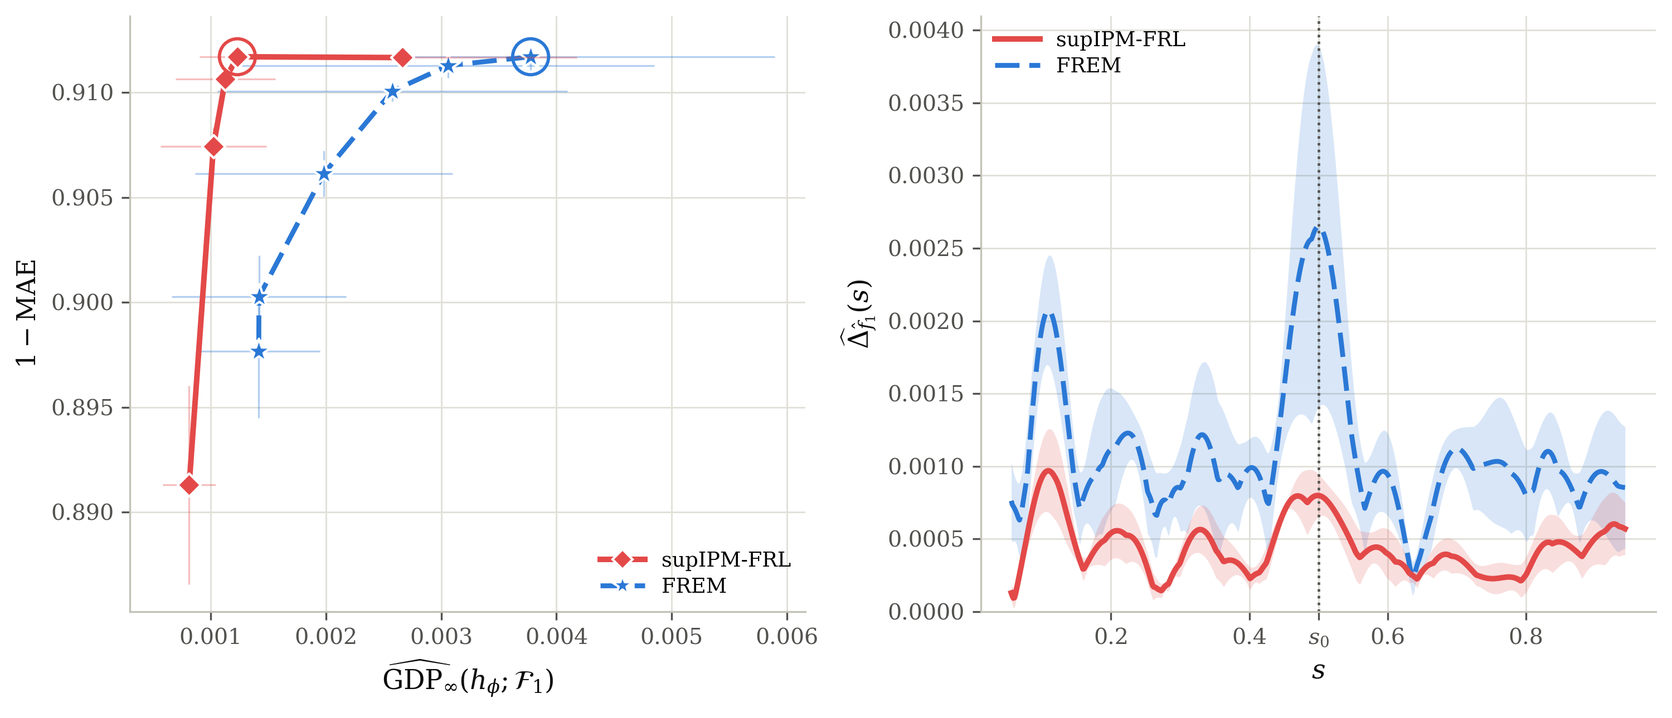
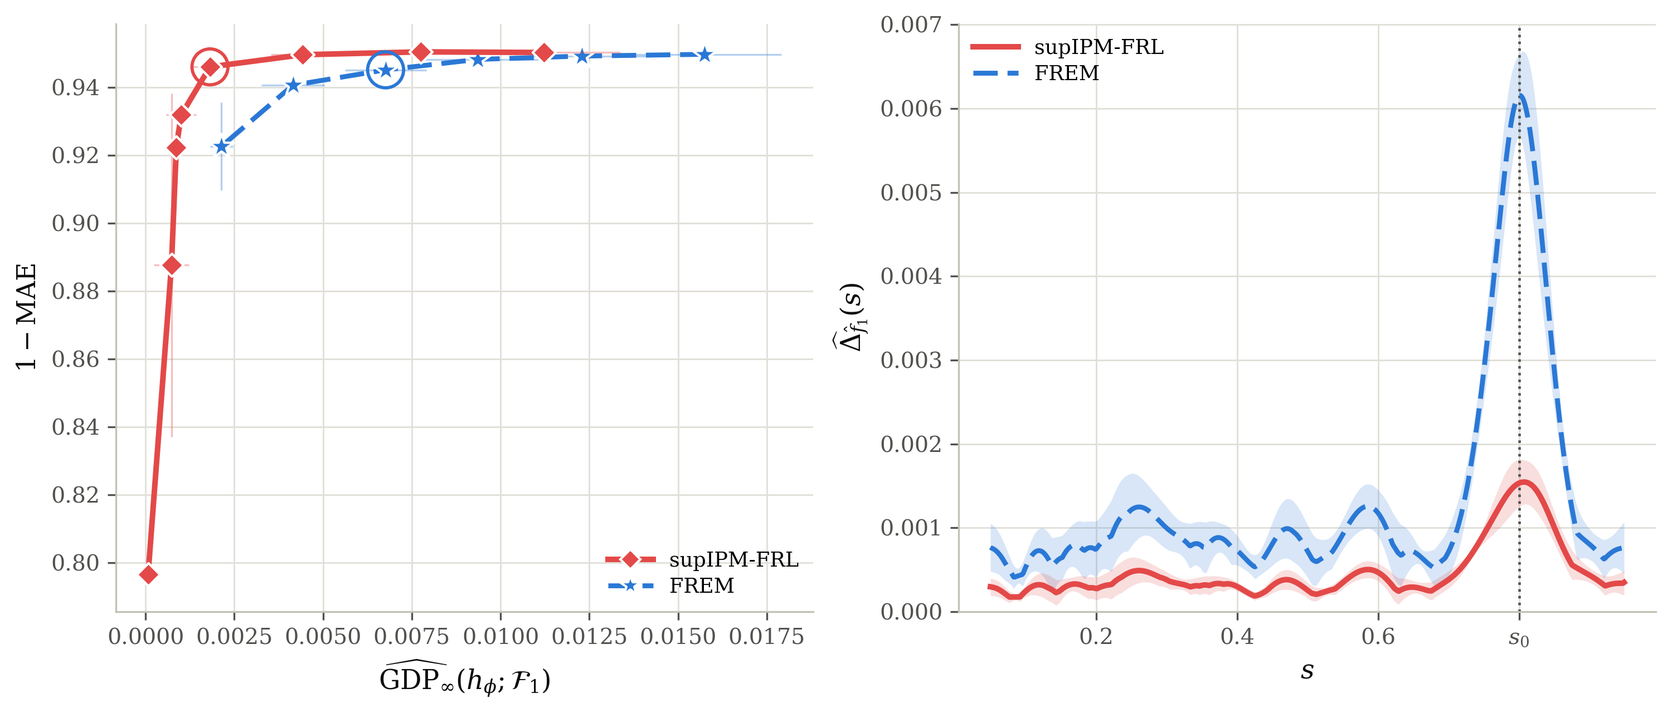
Update on Overleaf.

diff --git a/iclr2027/iclr2027_conference.tex b/iclr2027/iclr2027_conference.tex
@@ -90,12 +90,11 @@ Address \\
 
 
 \maketitle
-
 \begin{abstract}
 Fair representation learning (FRL) seeks a representation that is informative for downstream prediction yet independent of a sensitive attribute. For a continuous sensitive attribute, existing methods measure the discrepancy between conditional and marginal distributions at each sensitive value and \emph{average} it over the distribution of the sensitive attribute. Such an average can be small even when a fairness violation is confined to a low-probability range of sensitive values, and thus provides no uniform guarantee over the sensitive domain. 
 We therefore propose the supremum integral probability metric (supIPM) to measure the worst-case discrepancy between the conditional and marginal distributions of the representation over sensitive values.
 supIPM controls the worst-case disparity of predictions, which we call $L_\infty$-generalized demographic parity.
-We then propose supIPM-FRL, an algorithm for learning representations that control worst-case fairness violations in downstream predictions.
+We then propose $\mathrm{FR}_{\sup}$, an algorithm for learning representations that control worst-case fairness violations in downstream predictions.
 % Such a discriminator is determined by a direction and a bias alone, so each discrepancy is maximized over the discriminator class by gradient ascent. 
 % We prove that the empirical supIPM is a uniformly consistent estimator, and bounds downstream disparity for heads of bounded Hölder norm.
 % We establish a uniform convergence rate of the empirical supIPM over a class of encoders and show that it yields a bound on downstream disparity for heads of bounded Hölder norm.
@@ -158,7 +157,7 @@ The worst-case fairness violation of any prediction model constructed on the fai
   \item We construct an estimator of supIPM by applying kernel density estimation techniques
   to ReLU-IPM, and prove that this estimator is consistent. 
   \item We develop an algorithm to learn a fair representation while controlling the worst-case fairness violation, called
-  supIPM-FRL, and prove that the worst-case fairness violations of a large class of prediction models constructed on the fair representation learned by supIPM-FRL are asymptotically controlled.
+  $\mathrm{FR}_{\sup}$, and prove that the worst-case fairness violations of a large class of prediction models constructed on the fair representation learned by supIPM-FRL are asymptotically controlled.
   \item We demonstrate empirically that supIPM-FRL controls fairness violations 
 across all of the domain of continuous sensitive attributes.
   % uniformly over the sensitive domain and over prediction heads of bounded H\"older norm.
@@ -277,7 +276,8 @@ and $  \mathcal{H}^{\beta}_d
   \end{cases}
   \label{eq:relu-holder}
 \end{equation}
-This result implies that we can control H\"older-IPM by controlling ReLU-IPM, and thus control fairness violation of H\"older smooth prediction heads.
+This result implies that we can control H\"older-IPM by controlling ReLU-IPM, and thus control fairness violation of H\"older smooth prediction heads. 
+However, computing $\widehat{\operatorname{EIPM}}^{\gamma}_{\mathcal{V}_{\mathrm{R}}}(\mathbf{Z};S)$ requires  adversarial learning  for each $S_i$, making it computationally demanding to apply ReLU-IPM to FREM.
 
 \section{supIPM for fair representation learning}
 \label{sec:supipm}
@@ -567,7 +567,7 @@ Experimental details are given in Appendices~\ref{app:synth-experiments} and~\re
 
 \paragraph{Measures.}  Prediction performance is measured by the test accuracy for classification and the test $1-\mathrm{MAE}$ for regression.  Fairness violation of a prediction head $f$ on the representation $\mathbf{Z}=h_{\phi}(\mathbf{X})$ is measured through the disparity $\Delta_{f}(s):=|\mathbb{E}[f(\mathbf{Z})\mid S=s]-\mathbb{E}[f(\mathbf{Z})]|$ at each sensitive value $s$.
 % whose supremum over $s$ is $\operatorname{GDP}_{\infty}(f\circ h)$ of (\ref{eq:linfty-gdp}).
-The prediction-level disparity $\operatorname{GDP}_{\infty}(f_{\psi}\circ h_{\phi}) = \sup_{s} \Delta_{f_{\psi}}(s)$ evaluates the prediction head $f_{\psi}$ trained jointly with the encoder.  Since a representation may later serve other prediction heads \citep{coston2021characterizing,jovanovic2023fare,luo2026fair}, we also measure the largest disparity that a downstream prediction head can attain.  For $c>0$, let $\mathcal{F}_c:=\{\sigma(\mathbf{w}^\top\mathbf{z}+b):\lVert\mathbf{w}\rVert_2\le c,\ b\in\mathbb{R}\}$ be the logistic heads with weight norm at most $c$, where $\sigma(t):=(1+e^{-t})^{-1}.$ The worst-case downstream disparity over $\mathcal{F}_c$ is
+The prediction-level disparity $\operatorname{GDP}_{\infty}(f_{\psi}\circ h_{\phi}) = \sup_{s} \Delta_{f_{\psi}}(s)$ evaluates the prediction head $f_{\psi}$ trained jointly with the encoder.  Since a representation may later serve other prediction heads \citep{coston2021characterizing,jovanovic2023fare,luo2026fair}, we also measure the largest disparity that a downstream prediction head can attain.  For $c>0$, let $\mathcal{F}_c:=\{\sigma(\mathbf{w}^\top\mathbf{z}+b):\lVert\mathbf{w}\rVert_2\le c,\ b\in\mathbb{R}\}$ be the class of prediction heads with weight norm at most $c$, where $\sigma(t):=(1+e^{-t})^{-1}.$ The worst-case downstream disparity over $\mathcal{F}_c$ is
 \begin{equation}
   \operatorname{GDP}_{\infty}(h_{\phi};\mathcal{F}_c):=\sup_{f\in\mathcal{F}_c}\operatorname{GDP}_{\infty}(f\circ h_{\phi}) = \sup_{f\in\mathcal{F}_c} \sup_{s \in \mathcal{S}} \Delta_{f}(s).
   \label{eq:worst-case-gdp}
@@ -585,7 +585,8 @@ We write $\widehat{\Delta}_{f}$ and $\widehat{\operatorname{GDP}}_{\infty}$ for 
   \widehat{\operatorname{GDP}}_{\infty}(f_{\mathbf{w},b}\circ h_\phi)
   \label{eq:worst-case-estimate}
 \end{equation}
-over $\lVert\mathbf{w}\rVert_2\le c$ and $b\in\mathbb{R}$, with $\lambda_h=10^{3}$ so that the fairness regularization term dominates.  The minimizer $\hat{f}_c$ approximates the head attaining the supremum in (\ref{eq:worst-case-gdp}), and the worst-case disparity is estimated by $\widehat{\operatorname{GDP}}_{\infty}(h_\phi;\mathcal{F}_c):=\widehat{\operatorname{GDP}}_{\infty}(\hat{f}_c\circ h_\phi)$.
+over $\lVert\mathbf{w}\rVert_2\le c$ and $b\in\mathbb{R}$, with $\lambda_h=10^{3}$ so that the fairness regularization term dominates. Let $\hat{f}_c(\cdot):=f_{\hat{\mathbf{w}}_c,\hat{b}_c}(\cdot)$, where $(\hat{\mathbf{w}}_c,\hat{b}_c)$ minimizes $\widetilde{\mathcal{L}}(\mathbf{w},b)$ subject to $\lVert\mathbf{w}\rVert_2\le c$ and $b\in\mathbb{R}$.
+  This head approximates the prediction head attaining the supremum in (\ref{eq:worst-case-gdp}), and the worst-case disparity is estimated by $\widehat{\operatorname{GDP}}_{\infty}(h_\phi;\mathcal{F}_c):=\widehat{\operatorname{GDP}}_{\infty}(\hat{f}_c\circ h_\phi)$.
 
 \subsection{Simulation study}
 \label{sec:exp-simulation}
@@ -609,15 +610,16 @@ over $\lVert\mathbf{w}\rVert_2\le c$ and $b\in\mathbb{R}$, with $\lambda_h=10^{3
 % We compare supIPM-FRL with FREM by varying the penalty parameter $\lambda$ of their training objectives, (\ref{eq:supipm-penalized-objective}) and (\ref{eq:frem-objective}) respectively, and measure fairness violation by the worst-case downstream disparity over $\mathcal{F}_1$.
 % Each curve joins the configurations in increasing order of the penalty parameter.
 We generate an input $\mathbf{X}:=(\mathbf{X}_{\mathrm{task}},\mathbf{X}_{\mathrm{noise}},S)$ and an outcome $Y$ as follows.
-We independently draw $S\sim\mathrm{Uniform}(0,1)$, $\mathbf{X}_{\mathrm{task}}\sim N(\mathbf{0},\mathbf{I}_4)$, $\mathbf{X}_{\mathrm{noise}}\sim N(\mathbf{0},\mathbf{I}_3)$ and $\varepsilon_1,\varepsilon_2\sim N(0,1)$, and set
+We independently draw $S$ on $[0,1]$ with density
+$p(s) \propto 1-0.9\exp\{-(s-s_0)^2/(2\tau^2)\}$, $\mathbf{X}_{\mathrm{task}}\sim N(\mathbf{0},\mathbf{I}_4)$, $\mathbf{X}_{\mathrm{noise}}\sim N(\mathbf{0},\mathbf{I}_3)$ and $\varepsilon_1,\varepsilon_2\sim N(0,1)$, and set
 \begin{equation*}
 X_{\mathrm{loc}}:=3\exp\!\left\{-\frac{(S-s_0)^2}{2\tau^2}\right\}+0.5\,\varepsilon_1,
 \qquad
 Y:=\sigma\!\left(\boldsymbol{\upsilon}^\top\mathbf{X}_{\mathrm{task}}+X_{\mathrm{loc}}+0.3\,\varepsilon_2\right),
 \end{equation*}
-where $s_0=0.5$, $\tau=0.043$ and $\boldsymbol{\upsilon}\in\mathbb{R}^4$ is given.
-Since $S$ affects $Y$ only near $s_0$, the worst-case fairness violation can occur near $s_0$, even though only a small proportion of observations fall in this narrow interval.
-We compare supIPM-FRL with FREM by varying $\lambda$ in (\ref{eq:supipm-penalized-objective}) and (\ref{eq:frem-objective}), respectively, and measure fairness violation by the worst-case downstream disparity over $\mathcal{F}_1$.
+where $s_0=0.8$, $\tau=0.043$ and $\boldsymbol{\upsilon}\in\mathbb{R}^4$ is a fixed vector.
+Since $\tau$ is small and so $S$ affects $Y$ only near $s_0$, the worst-case fairness violation can occur near $s_0$ where only a small proportion of observations fall in this narrow interval. Thus, EIPM may ignore unfairness around $s_0.$
+To confirm this conjecture, we compare supIPM-FRL with FREM by varying $\lambda$ in (\ref{eq:frem-objective}) and (\ref{eq:supipm-penalized-objective}), respectively, and measure the worst-case downstream disparity over $\mathcal{F}_1$.
 Details are provided in Appendix~\ref{app:synth-experiments}.
 
 
@@ -657,7 +659,12 @@ Table~\ref{tab:datasets} in Appendix~\ref{app:real-datasets} gives further detai
 
 \paragraph{Baselines.}
 We compare supIPM-FRL with seven baselines for fair representation learning (FRL) algorithms or for learning fair prediction models.
-Table~\ref{tab:baselines} summarizes the compared algorithms, and Appendix~\ref{app:real-baselines} provides more details about baseline methods.
+Table~\ref{tab:baselines} summarizes the type of sensitive attribute
+and the learning object of each method. The learning object indicates
+whether the method was proposed for fair representation learning or
+fair prediction. Appendix~\ref{app:real-baselines} provides further
+details about the baseline methods.
+% Table~\ref{tab:baselines} summarizes the compared algorithms, and Appendix~\ref{app:real-baselines} provides more details about baseline methods.
 % ADV is the adaptation by \citet{kong2025fair} of the adversarial method of \citet{zhang2018mitigating}, whose adversary predicts $S$ from the representation.
 To apply LAFTR, MMD and sIPM-LFR to the continuous sensitive attribute $S$, we binarize the sensitive values at their median in the training data.
 For each method, we vary its fairness penalty parameter $\lambda$ over a grid and train with five random seeds.
@@ -671,16 +678,16 @@ For each method, we vary its fairness penalty parameter $\lambda$ over a grid an
 \label{tab:baselines}
 \begin{tabular}{lll}
 \toprule
-Method & Type of sensitive attribute & Aim of algorithm \\
+Method & Type of sensitive attribute & Learning object \\
 \midrule
-supIPM-FRL & continuous & representation \\
-FREM \citep{kong2025fair} & continuous & representation \\
-Reg-GDP \citep{jiang2022generalized} & continuous or discrete & prediction  \\
-Reg-HGR \citep{mary2019fairness} & continuous or discrete & prediction \\
-ADV \citep{zhang2018mitigating} & continuous or discrete & prediction \\
-LAFTR \citep{madras2018learning} & binary & representation \\
-MMD \citep{deka2023mmd} & binary & representation \\
-sIPM-LFR \citep{kim2022learning} & binary & representation \\
+supIPM-FRL & continuous & fair representation \\
+FREM \citep{kong2025fair} & continuous & fair representation \\
+Reg-GDP \citep{jiang2022generalized} & continuous or discrete & fair prediction  \\
+Reg-HGR \citep{mary2019fairness} & continuous or discrete & fair prediction \\
+ADV \citep{zhang2018mitigating} & continuous or discrete & fair prediction \\
+LAFTR \citep{madras2018learning} & binary & fair representation \\
+MMD \citep{deka2023mmd} & binary & fair representation \\
+sIPM-LFR \citep{kim2022learning} & binary & fair representation \\
 \bottomrule
 \end{tabular}
 \vspace{-6pt}
@@ -700,7 +707,7 @@ sIPM-LFR \citep{kim2022learning} & binary & representation \\
 Figure~\ref{fig:adult} compares the methods by the prediction-level disparity and Figure~\ref{fig:worst-case} by the worst-case downstream disparity over $\mathcal{F}_1$.
 % the results with $S$ discretized at its mean and the worst-case curves over $\mathcal{F}_4$ and $\mathcal{F}_8$ are given in Appendix~\ref{app:real-tabular}.
 supIPM-FRL is similar to the other methods at the prediction level, whereas its worst-case disparity is markedly smaller than that of every other method on all three datasets.
-Table~\ref{tab:matched-adult} reports the two disparities on Adult at test accuracy $0.838$--$0.846$, following Appendix~\ref{app:real-matched}. The worst-case disparity of supIPM-FRL is lower than that of every baseline.
+% Table~\ref{tab:matched-adult} reports the two disparities on Adult at test accuracy $0.838$--$0.846$, following Appendix~\ref{app:real-matched}. The worst-case disparity of supIPM-FRL is lower than that of every baseline.
 % , where the methods that use $S$ directly coincide with it.
 The prediction-level disparity concerns the trained head only, whereas the worst-case disparity concerns every head in $\mathcal{F}_1$.
 \begin{figure}[!htb]
@@ -712,28 +719,28 @@ The prediction-level disparity concerns the trained head only, whereas the worst
   \vspace{-4pt}
 \end{figure}
 
-\begin{table}[!htb]
-\centering
-\footnotesize
-\setlength{\tabcolsep}{3pt}
-\caption{Prediction-level and worst-case disparities on Adult.}
-\label{tab:matched-adult}
-\begin{tabular}{lrrrrrrrr}
-\toprule
- & supIPM-FRL & FREM & Reg-GDP & Reg-HGR & ADV & LAFTR & MMD & sIPM-LFR \\
-\midrule
-prediction-level & $\mathbf{0.0350}$ & 0.0529 & 0.0639 & 0.0706 & 0.0855 & 0.0822 & 0.0541 & 0.0601 \\
-worst-case & $\mathbf{0.0014}$ & 0.0086 & 0.0339 & 0.0192 & 0.0388 & 0.0403 & 0.0186 & 0.0197 \\
-\bottomrule
-\end{tabular}
-\vspace{-6pt}
-\end{table}
+% \begin{table}[!htb]
+% \centering
+% \footnotesize
+% \setlength{\tabcolsep}{3pt}
+% \caption{Prediction-level and worst-case disparities on Adult.}
+% \label{tab:matched-adult}
+% \begin{tabular}{lrrrrrrrr}
+% \toprule
+%  & supIPM-FRL & FREM & Reg-GDP & Reg-HGR & ADV & LAFTR & MMD & sIPM-LFR \\
+% \midrule
+% prediction-level & $\mathbf{0.0350}$ & 0.0529 & 0.0639 & 0.0706 & 0.0855 & 0.0822 & 0.0541 & 0.0601 \\
+% worst-case & $\mathbf{0.0014}$ & 0.0086 & 0.0339 & 0.0192 & 0.0388 & 0.0403 & 0.0186 & 0.0197 \\
+% \bottomrule
+% \end{tabular}
+% \vspace{-6pt}
+% \end{table}
 
 \Needspace{11\baselineskip}
 \begin{wrapfigure}{r}{0.36\textwidth}
   \vspace{-4pt}
   \centering
-  \includegraphics[width=\linewidth]{main/fig5_profile_adult.pdf}
+  \includegraphics[width=\linewidth]{main/fig5_profile_adult.png}
   \vspace{-14pt}
   \caption{$\widehat{\Delta}_{\hat{f}_1}(s)$  of supIPM-FRL and FREM at matched test accuracy.}
   \label{fig:profile-adult}
@@ -742,11 +749,27 @@ worst-case & $\mathbf{0.0014}$ & 0.0086 & 0.0339 & 0.0192 & 0.0388 & 0.0403 & 0.
 
 % The other methods constrain the dependence on $S$ only on average over $S$, only within groups of a discretized $S$, or only through a single head or adversary, so a downstream head can use the dependence they leave.
 % The baselines do not directly control the dependence between the representation and $S$ at every sensitive value, so a downstream head can exploit the dependence that remains, which raises the worst-case disparity.
-The baselines do not directly control disparity at every sensitive value, so worst-case fairness violations may arise with other downstream heads.
+The baselines do not directly control disparity at every sensitive value, so the worst-case fairness violation may be large with other downstream heads.
 In contrast, supIPM-FRL controls the largest ReLU-IPM between $\mathbb{P}_{\mathbf{Z}\mid S=s}$ and $\mathbb{P}_{\mathbf{Z}}$ over the sensitive domain, and Corollary~\ref{cor:certificate} implies that the empirical supIPM yields a bound on $\Delta_f(s)$ over $\mathcal{S}_n$ for every head $f$ of bounded H\"older norm.
-Figure~\ref{fig:profile-adult} shows $\widehat{\Delta}_{\hat{f}_1}(s)$ on Adult for supIPM-FRL and FREM at a test accuracy within $0.004$ of the model trained without a fairness penalty.
+Figure~\ref{fig:profile-adult} shows $\widehat{\Delta}_{\hat{f}_1}(s)$ on Adult for supIPM-FRL and FREM 
+with the test accuracies similar to that of the model trained without a fairness penalty.
 % For each method, we take the setting with the smallest worst-case disparity among these settings.
-The disparity of supIPM-FRL is small over the whole sensitive domain, whereas that of FREM is substantially larger over most of the domain.
+The disparity of supIPM-FRL is small over the whole sensitive domain, whereas that of FREM is substantially larger for $s$
+near the left boundary and $s \approx 0.52$. 
+% The disparity of supIPM-FRL is small over the whole sensitive domain,
+% whereas that of FREM is substantially larger for $s$ near the left
+% boundary and $s\approx0.52$. 
+% The larger disparities of FREM occur in age ranges where the proportion
+% of observations whose income exceeds \$50k differs markedly from the
+% corresponding proportion in the full dataset. Appendix~\ref{app:adult-explain} provides a detailed comparison of these proportions.
+
+\begin{remark}
+    \label{rem:sup-mmd}
+    Unlike the worst-case disparity shown in \ref{fig:simulation}, FREM exhibits high $\widehat{\Delta}_{\hat{f}_1}(s)$ across the sensitive domain in Figure~\ref{fig:profile-adult}.
+A possible explanation is that the discriminator class of MMD used in FREM is smaller than that of ReLU-IPM, as discussed in Section~\ref{sec:discriminator-choice}.
+We further examine the effect of the discriminator class in Appendix~\ref{app:ablation-ipm-class}.
+\end{remark}
+
 
   % on Adult for the configurations with the smallest worst-case disparity among those whose test accuracy is within $0.004$ of the model trained without a penalty. the worst-case head of FREM attains a disparity many times larger than that of supIPM-FRL, whose disparity is small at every $s$.  Accordingly, the empirical supIPM on the test data in Appendix~\ref{app:real-measures} is smallest for supIPM-FRL on Adult and Crime at a matched level of prediction performance, although FREM attains a smaller value on ACSIncome.
 
@@ -767,7 +790,7 @@ We proposed supIPM, which measures the worst-case fairness violation of a repres
 We established a uniform convergence rate of the empirical supIPM, which yields a bound of the $\operatorname{GDP}_{\infty}$ for every  H\"older smooth prediction head.
 % With the ReLU discriminator class, supIPM-FRL admits a mini-batch formulation with unbiased gradients for fixed inner variables.
 On simulated and real data, supIPM-FRL attains a markedly smaller worst-case downstream disparity than existing methods at comparable prediction performance.
-Future work includes extending supIPM to fairness criteria conditional on the outcome, such as equalized odds and equal opportunity.
+Future work includes extending supIPM to fairness criteria conditional on the outcome, such as equalized odds or equal opportunity.
 
 % Future work includes extending supIPM-FRL to multivariate sensitive attributes.
 % We also aim to support training when sensitive attributes are observed for only some samples.
@@ -1663,6 +1686,21 @@ The data are generated as
 \end{aligned}
 \label{eq:synth-common}
 \end{equation}
+\begin{equation}
+\begin{alignedat}{2}
+  &\omega(s):=\exp\!\left\{-\frac{(s-s_0)^2}{2\tau^2}\right\},
+  &\qquad&
+  s_0=0.8,\quad \tau=0.043,\\
+  &S\sim p_S(\cdot),
+  &\qquad&
+  p_S(s)\propto 1-0.9\,\omega(s),\quad s\in[0,1],\\
+  &\mathbf{X}_{\mathrm{task}}\sim N(\mathbf{0},\mathbf{I}_4),
+  &\qquad&
+  \mathbf{X}_{\mathrm{noise}}\sim N(\mathbf{0},\mathbf{I}_3),\\
+  &X_{\mathrm{loc}}:=3\,\omega(S)+0.5\,\varepsilon_1.
+\end{alignedat}
+\label{eq:synth-common}
+\end{equation}
 where $\varepsilon_1,\varepsilon_2\sim N(0,1)$, and $S$, $\mathbf{X}_{\mathrm{task}}$, $\mathbf{X}_{\mathrm{noise}}$, $\varepsilon_1$ and $\varepsilon_2$ are mutually independent.
 The function $\omega$ is a Gaussian kernel centered at $s_0=0.5$.  Since $S$ is uniform on $[0,1]$, the interval $[s_0-\tau,\,s_0+\tau]$ has probability $2\tau=0.086$, so the dependence of $X_{\mathrm{loc}}$ on $S$ introduced through $\omega$ is concentrated in a small part of the sensitive domain.  Let $\boldsymbol{\upsilon}:=(0.8,-0.6,0.4,0.5)^\top$ and let $\sigma$ be the logistic function of Section~\ref{sec:experiments}.  The outcome and the input are
 \begin{equation}
@@ -2018,6 +2056,66 @@ The MMD evaluates the kernel at every pair of representations, so its cost grows
 
 The linear cost of supIPM-FRL, together with the unbiased mini-batch gradients of Appendix~\ref{app:mini-batch}, is the main reason for the ReLU discriminators of Section~\ref{sec:discriminator-choice}.
 
+\subsection{Effect of IPM class}
+\label{app:ablation-ipm-class}
+이 subsection에서는 IPM class $\mathcal{V}$의 choice가 $\mathrm{FR}_{\sup}$에 주는 영향을 분석한다. 그러기 위해서 Relu-IPM 외에 sigoild ipm과 MMD를 추가로 고려한다. supIPM을 구하는데 있어서   replace the ReLU class $\mathcal{V}_{\mathrm{R}}$ of (\ref{eq:relu-class})를 the sigmoid discriminators $\sigma(\theta^{\top}\mathbf{z}+\mu)$ used by sIPM-LFR \citep{kim2022learning} and by the unit ball of the Gaussian RKHS, whose IPM is the MMD used by FREM 로 replacement해서 각 데이터에서 보고, Adult에서는 MMD를 사용한 $\mathrm{FR}_{\sup \mathrm{MMD}}$와 $\mathrm{FR}_{\sup \mathrm{MMD}}$의 worst-case disparity $\hat{\Delta}_{\hat{f}_1}(s)$를 matched test accuracy에서 비교한다.
+
+
+
+The discriminator class $\mathcal{V}$ determines which discrepancies between $\mathbb{P}_{\mathbf{Z}\mid S=s}$ and $\mathbb{P}_{\mathbf{Z}}$ the supremum in (\ref{eq:supipm}) detects, and hence which downstream heads the penalty controls.  We replace the ReLU class $\mathcal{V}_{\mathrm{R}}$ of (\ref{eq:relu-class}) by the sigmoid discriminators $\sigma(\theta^{\top}\mathbf{z}+\mu)$ used by sIPM-LFR \citep{kim2022learning} and by the unit ball of the Gaussian RKHS, whose IPM is the MMD used by FREM \citep{kong2025fair}. 
+% Appendix~\ref{app:real-cost} refers to the latter variant as sup-MMD.  Both variants retain the supremum over $s$, which the baselines sIPM-LFR and FREM do not. 
+% The grid of penalty values is chosen separately for each class, since the three IPMs are not on a common scale, and the classes are compared at comparable prediction performance.
+
+\begin{figure}[H]
+  \centering
+  \includegraphics[width=0.78\textwidth]{appendix/figAB_disc.pdf}
+  \caption{Prediction performance against the prediction-level disparity and the worst-case downstream disparity over $\mathcal{F}_1$ for supIPM-FRL trained with each discriminator class.}
+  \label{fig:app-ablation-ipm-class}
+\end{figure}
+
+
+\begin{figure}[H]
+  \centering
+  \includegraphics[width=0.78\textwidth]{appendix/app_Delta(S)_adult.png}
+  \caption{$\widehat{\Delta}_{\hat{f}_1}(s)$  of supIPM-FRL, FREM, $\mathrm{FR}_{\sup \mathrm{MMD}}$ at matched test accuracy.}
+  \label{fig:app-ablation-ipm-class-Delta}
+\end{figure}
+
+
+
+
+
+
+\paragraph{Results.}  In Figure~\ref{fig:app-ablation-ipm-class}, the three discriminator classes yield similar prediction-level curves.  The ReLU and the sigmoid discriminators attain comparable worst-case downstream disparities, and their ordering varies with the dataset and with $\lambda$.  Both attain a markedly lower worst-case disparity than the MMD at comparable prediction performance.
+
+Figure ~\ref{fig:app-ablation-ipm-class-Delta}를 봤을때 ReLU-IPM을 사용한 $\mathrm{FR}_{\sup}$ 만 worst-case disparity가 낮고 MMD를 사용한 경우에는 크게 나왔다. 이를 봤을때 Adult에서 $\mathrm{FR}_{\sup}$가 FREM 대비 가지는 Figure5의 이점은 sup의 성질 그 자체보단 Discriminator가 더 큰 class의 prediction head를 포함할 수 있으므로, 얻어지는 이점이라 사료된다. 다만 이 결과가 supIPM의 정당성을 약화시키는건 아니다. 왜냐면 supIPM을 사용하기에 3.2에서 언급한 EIPM은 각 $S_i$에서 adversail learning을 해야되서 생기는 computation cost를 상당부분 완화할수 있기 때문이다.
+
+
+% \subsection{Outcome Proportions and Local Disparity on Adult}
+% \label{app:adult-explain}
+
+% Figure~\ref{fig:adult_rate_y} compares the outcome proportions
+% in selected age ranges with the overall proportion on Adult.
+
+% \begin{figure}[H]
+%   \centering
+%   \includegraphics[width=0.57\textwidth]{appendix/fig_rate_adult_true_y_all.png}
+%   \caption{Proportion of observations whose income exceeds \$50k on Adult.}
+%   \label{fig:adult_rate_y}
+% \end{figure}
+
+%  Ages 17--20 and 52--58 correspond to $s\approx0$ and $s\approx0.52$,
+% respectively, where FREM has relatively large
+% $\widehat{\Delta}_{\widehat{f}_1}(s)$ in
+% Figure~\ref{fig:profile-adult}.
+% The proportions of observations whose
+% income exceeds \$50k are $0.001$ and $0.372$ in these ranges, both
+% markedly different from the overall proportion of $0.248$. By contrast,
+% the proportion for ages 87--90 ($s\approx1$) is $0.245$, close to the
+% overall proportion, and the disparity of FREM is small there. This
+% comparison suggests that the representation obtained from FREM may leave large disparities in age ranges whose outcome proportions differ from
+% the overall proportion.
+
 \section{Ablation Studies}
 \label{app:ablation-studies}
 
@@ -2055,21 +2153,6 @@ The kernel $K_{\gamma}$ of (\ref{eq:supipm-estimators}) determines how the sensi
 
 \paragraph{Results.}  In Figure~\ref{fig:app-ablation-kernel}, over the range of prediction performance shared by the four kernels, their curves are close on the three datasets, and no kernel attains the lowest disparity on every dataset.  For the three compactly supported kernels, the prediction performance falls to that of a constant predictor at a smaller value of $\lambda$ than for the Gaussian kernel, so their curves end at a larger disparity, whereas the curve of the Gaussian kernel extends to a lower disparity.
 
-\subsection{IPM Class}
-\label{app:ablation-ipm-class}
-
-The discriminator class $\mathcal{V}$ determines which discrepancies between $\mathbb{P}_{\mathbf{Z}\mid S=s}$ and $\mathbb{P}_{\mathbf{Z}}$ the supremum in (\ref{eq:supipm}) detects, and hence which downstream heads the penalty controls.  We replace the ReLU class $\mathcal{V}_{\mathrm{R}}$ of (\ref{eq:relu-class}) by the sigmoid discriminators $\sigma(\theta^{\top}\mathbf{z}+\mu)$ used by sIPM-LFR \citep{kim2022learning} and by the unit ball of the Gaussian RKHS, whose IPM is the MMD used by FREM \citep{kong2025fair}. 
-% Appendix~\ref{app:real-cost} refers to the latter variant as sup-MMD.  Both variants retain the supremum over $s$, which the baselines sIPM-LFR and FREM do not. 
-% The grid of penalty values is chosen separately for each class, since the three IPMs are not on a common scale, and the classes are compared at comparable prediction performance.
-
-\begin{figure}[H]
-  \centering
-  \includegraphics[width=0.78\textwidth]{appendix/figAB_disc.pdf}
-  \caption{Prediction performance against the prediction-level disparity and the worst-case downstream disparity over $\mathcal{F}_1$ for supIPM-FRL trained with each discriminator class.}
-  \label{fig:app-ablation-ipm-class}
-\end{figure}
-
-\paragraph{Results.}  In Figure~\ref{fig:app-ablation-ipm-class}, the three discriminator classes yield similar prediction-level curves.  The ReLU and the sigmoid discriminators attain comparable worst-case downstream disparities, and their ordering varies with the dataset and with $\lambda$.  Both attain a markedly lower worst-case disparity than the MMD at comparable prediction performance.
 
 \subsection{Candidate Sensitive Values}
 \label{app:ablation-T}
